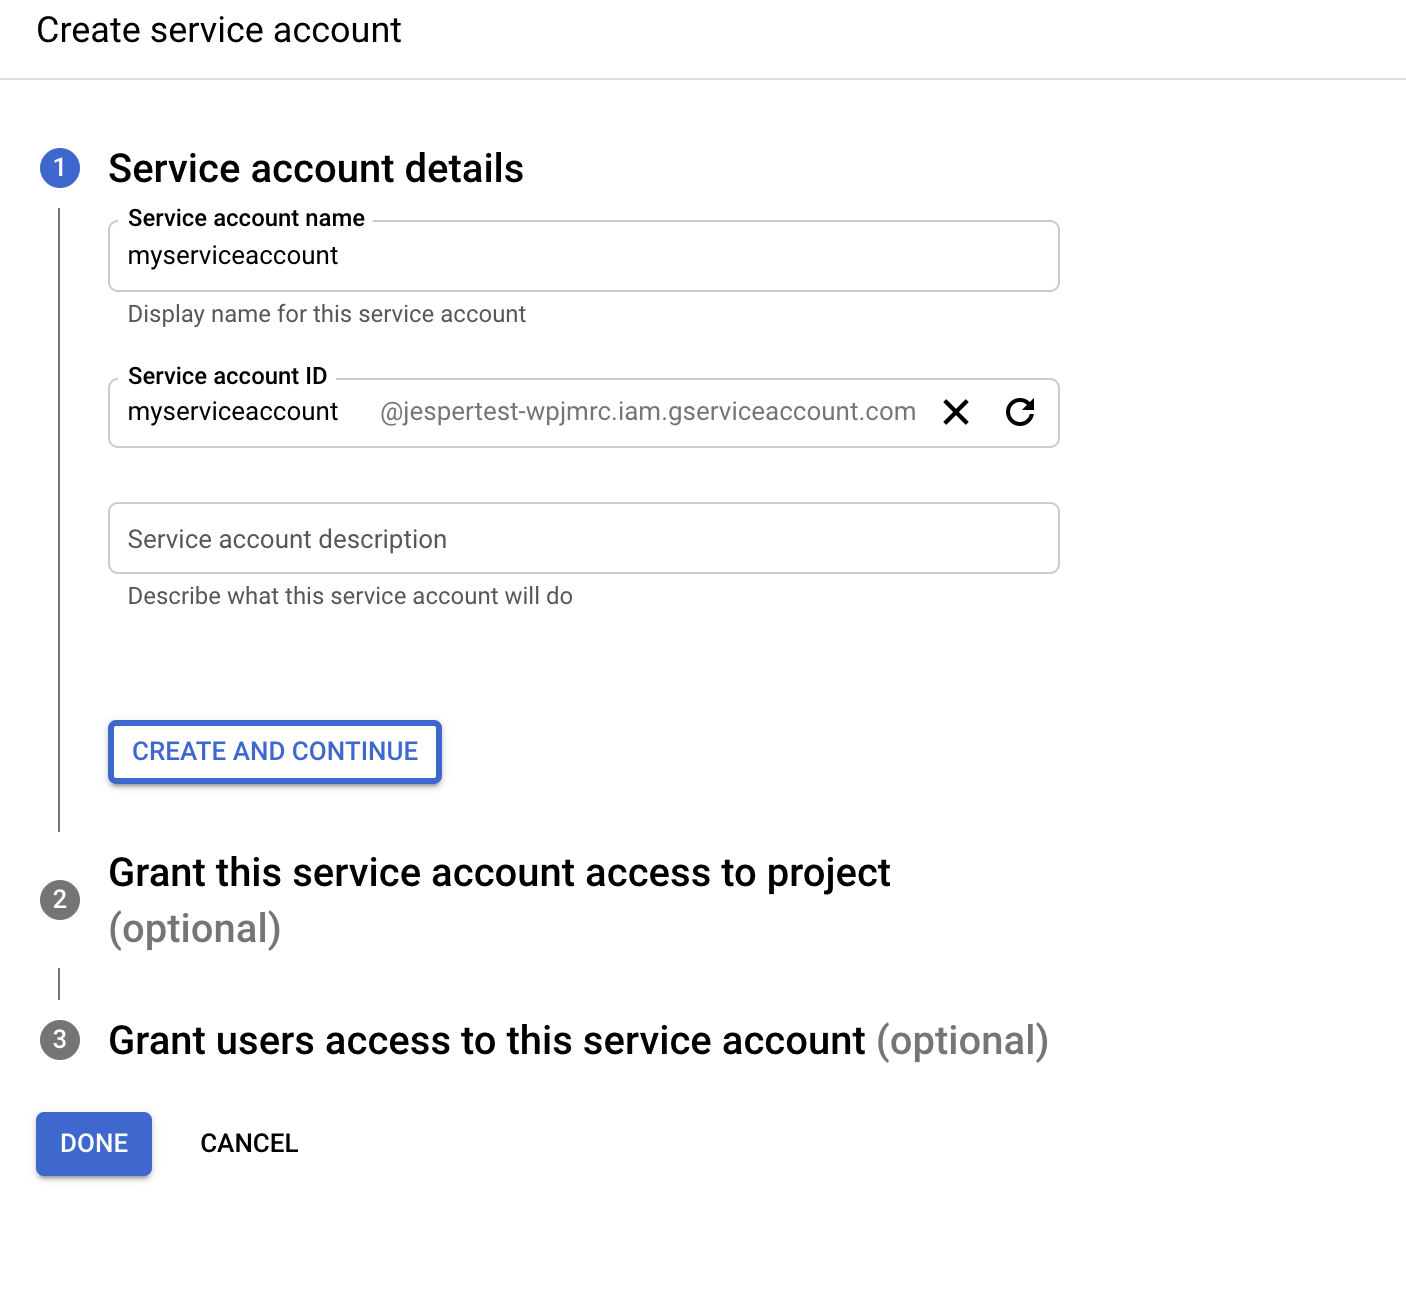
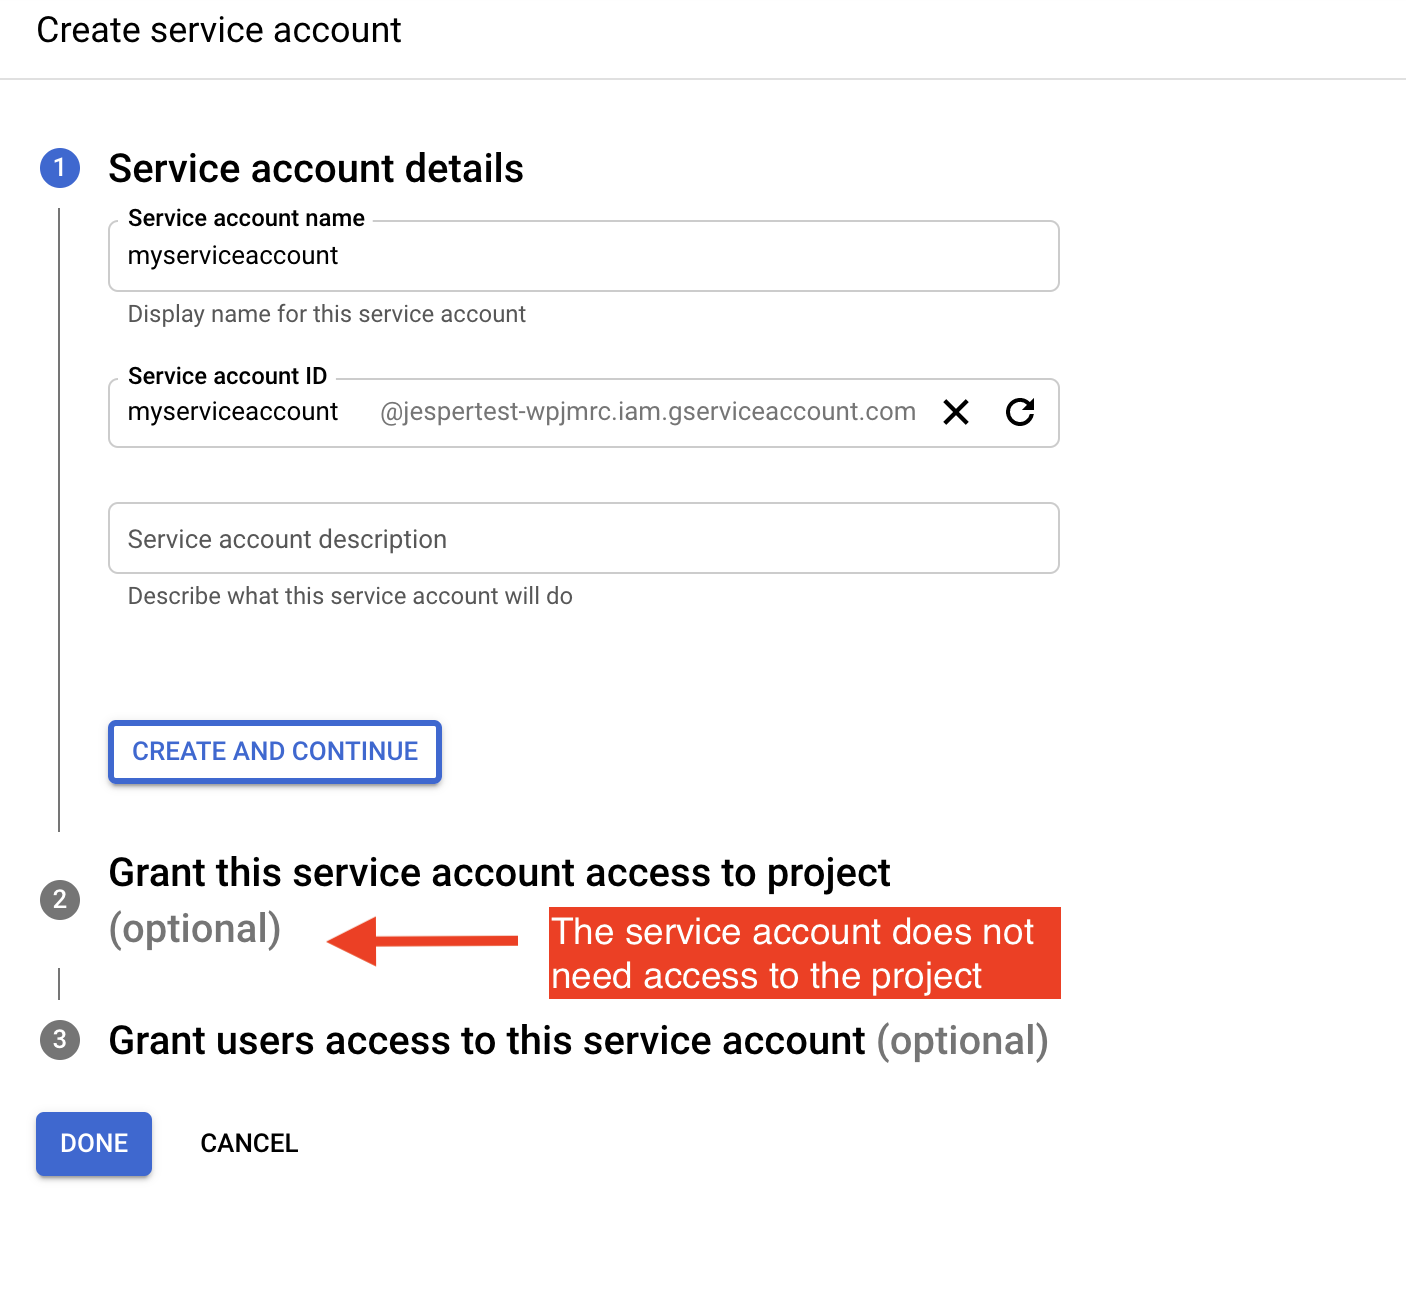
upload to google drive python sample

Changed region(s): [[0.2141, 0.6759, 0.7646, 0.768]]

diff --git a/test.py b/test.py
@@ -1,0 +1,31 @@
+from google.oauth2 import service_account
+import googleapiclient.discovery
+from apiclient.http import MediaFileUpload
+import sys
+
+SCOPES = ['https://www.googleapis.com/auth/drive']
+SERVICE_ACCOUNT_FILE = 'service-account.json'
+
+credentials = service_account.Credentials.from_service_account_file(
+        SERVICE_ACCOUNT_FILE, scopes=SCOPES)
+
+service = googleapiclient.discovery.build('drive', 'v3', credentials=credentials)
+
+if len(sys.argv)<2:
+    print("You must pass the Google Folder ID as argument to this program")
+    sys.exit(1)
+    
+folder_id = sys.argv[1]
+
+print(f"Creating file in folder with id {folder_id}")
+file_metadata = {
+    'name': 'testfile.csv',
+    'parents': [folder_id]
+}
+media = MediaFileUpload('testfile.csv',
+                        mimetype='application/csv',
+                        resumable=True)
+file = service.files().create(body=file_metadata,
+                                    media_body=media,
+                                    fields='id').execute()
+print(f"Open file at https://drive.google.com/file/d/{file.get('id')}/view")

diff --git a/README.md b/README.md
@@ -1,0 +1,82 @@
+# Interact with Google APIs from Python App
+
+This repo demonstrates how to interact with Google APIs, most specifically Drive API, from a Python app using service account credentials without requiring user-interactive OAuth flows.
+
+# Create Service Account
+
+Go to [Google Cloud Console](https://console.cloud.google.com/) and create or pick the project where you want to create the service account. The service account will not interact with any resources in the project, so it shouldn't matter which one you pick. You must have sufficient permissions on a project to create service accounts.
+
+![](screenshots/project.png)
+
+With your project selected, find the Service Account section using search
+
+![](screenshots/search-service-account.png)
+
+Click on the relevant search result to go to the service account page and create a new service account
+
+![](screenshots/create-service-account.png)
+
+Fill in a name. You don't need to give the account access to the project.
+
+![](screenshots/create-service-account-details.png)
+
+Open the actions drop-down menu for your newly created service account and select "Manage Keys"
+
+![](screenshots/manage-keys.png)
+
+Create a new key
+
+![](screenshots/create-key.png)
+
+Select JSON format
+
+![](screenshots/key-json.png)
+
+Once you click "Create", the key json file will be downloaded to your computer. Save the key as `service-account.json` in the root of this repo folder.
+
+Copy the email address of the service account. You will need this in a little bit
+
+![](screenshots/copy-name.png)
+
+# Set up the Google Drive Folder
+
+Log into your Google Drive account and create a new folder. Open sharing for the folder and add the service account email address as an Editor on the folder
+
+![](screenshots/share-folder.png)
+
+Grab the Folder ID from the URL. You will need it in a bit.
+
+![](screenshots/drive-folder.png)
+
+# Run the Python script
+
+This project uses [`pipenv`](https://pipenv.pypa.io/). If you use another virtual environment system, it should be straightforward to convert. You'll find dependencies in `Pipfile`.
+
+Set up the environment:
+
+    $ pipenv shell
+
+Run the python script:
+
+    $ python test.py <your google drive folder ID>
+    Creating file in folder with id <folder id>
+    Open file at https://drive.google.com/file/d/<newly created file id>/view
+
+This should upload a file to the folder called `testfile.csv`. You can open it directly from the printed URL or go find it in your browser.
+
+# References
+
+How to set up credentials to access APIs as a service account (without a user authorization flow):
+https://developers.google.com/identity/protocols/oauth2/service-account#python
+
+"Delegate Domain Wide Authority" is not needed. We grant the service account user direct access to the docs and folders.
+
+How to access Drive API from Python. Skip how it creates Credentials
+https://developers.google.com/drive/api/v3/quickstart/python
+
+Creating files in folders with Python:
+https://developers.google.com/drive/api/v3/folder#python
+
+OAuth2 scopes for Drive v3:
+https://developers.google.com/identity/protocols/oauth2/scopes#drive
+
